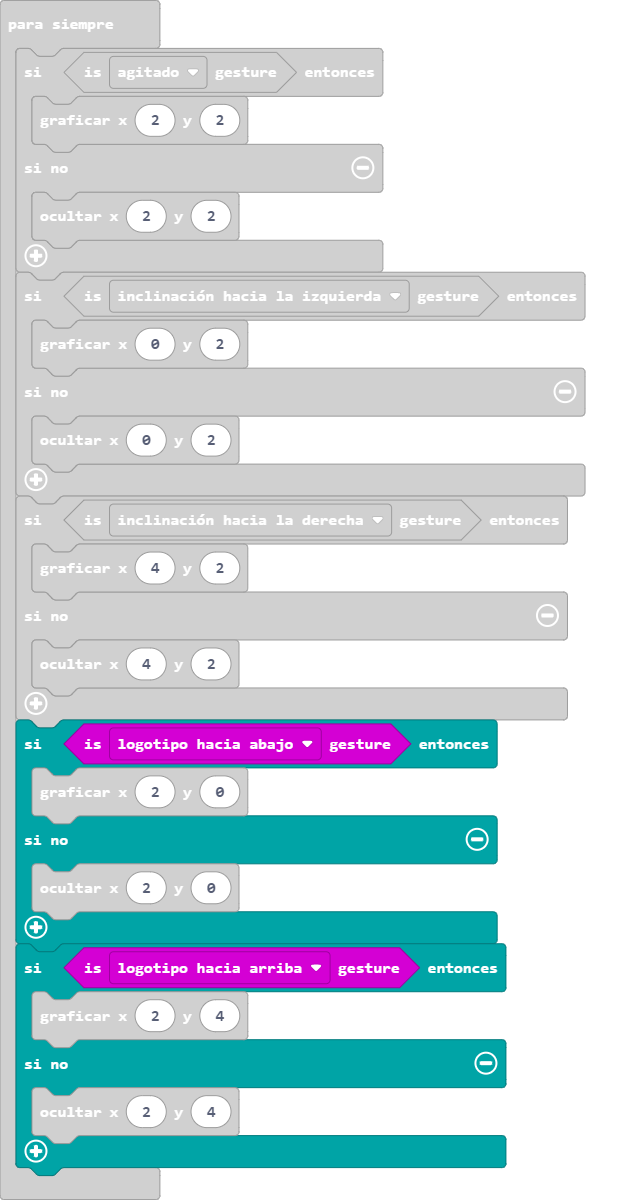
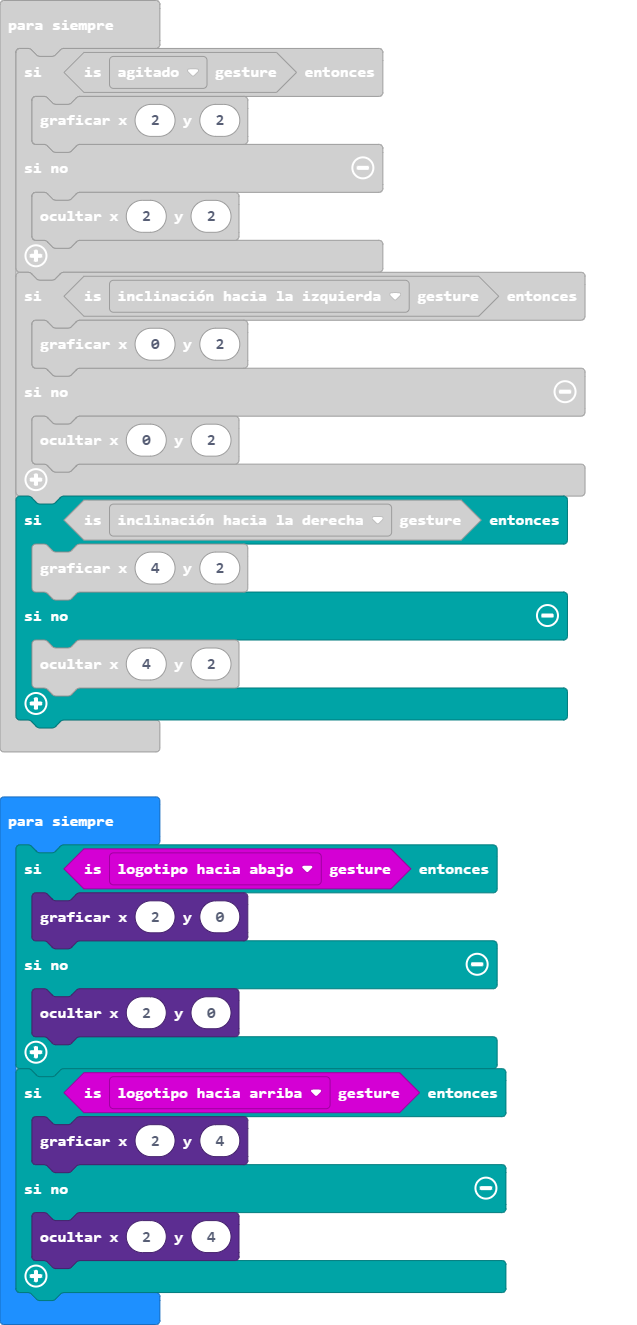
Actualizar main.blocks, main.ts

diff --git a/main.ts b/main.ts
@@ -14,6 +14,8 @@ basic.forever(function () {
     } else {
         led.unplot(4, 2)
     }
+})
+basic.forever(function () {
     if (input.isGesture(Gesture.LogoDown)) {
         led.plot(2, 0)
     } else {
